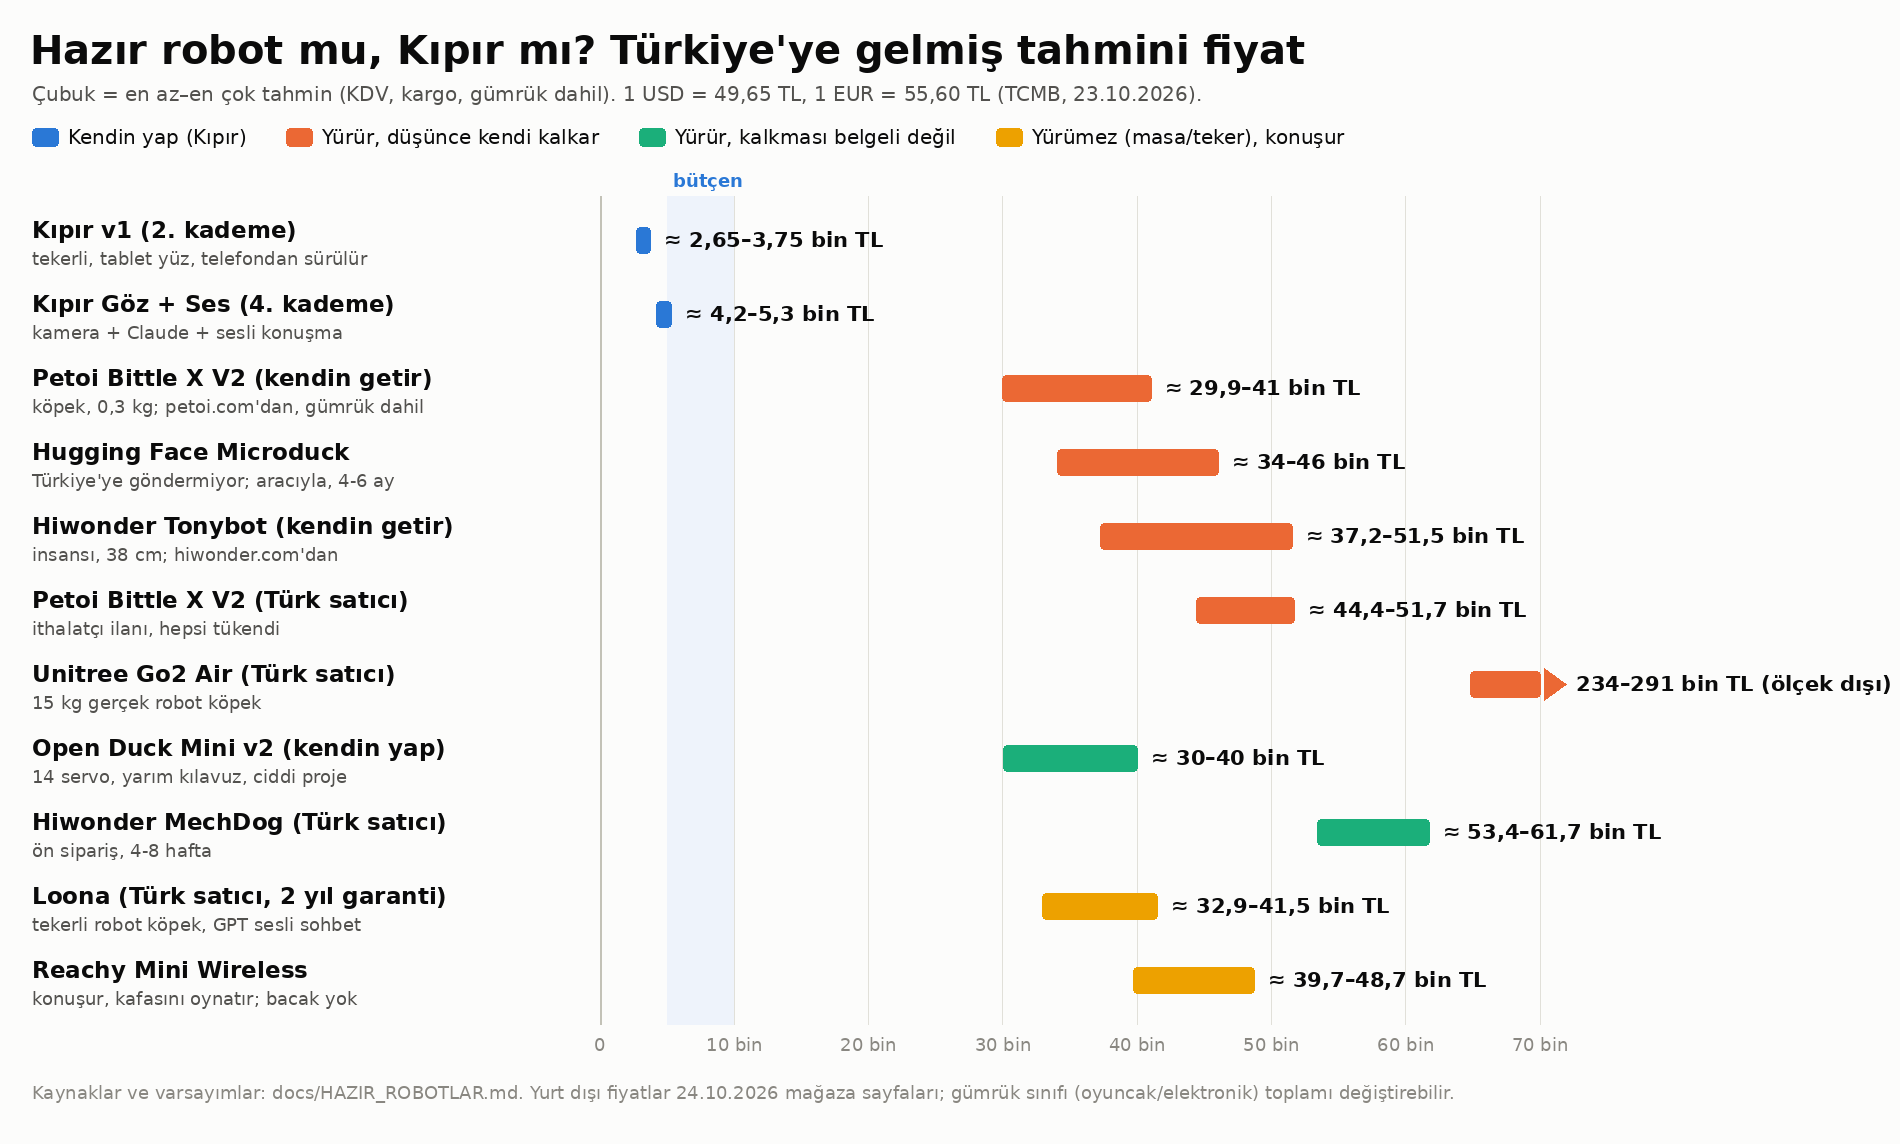
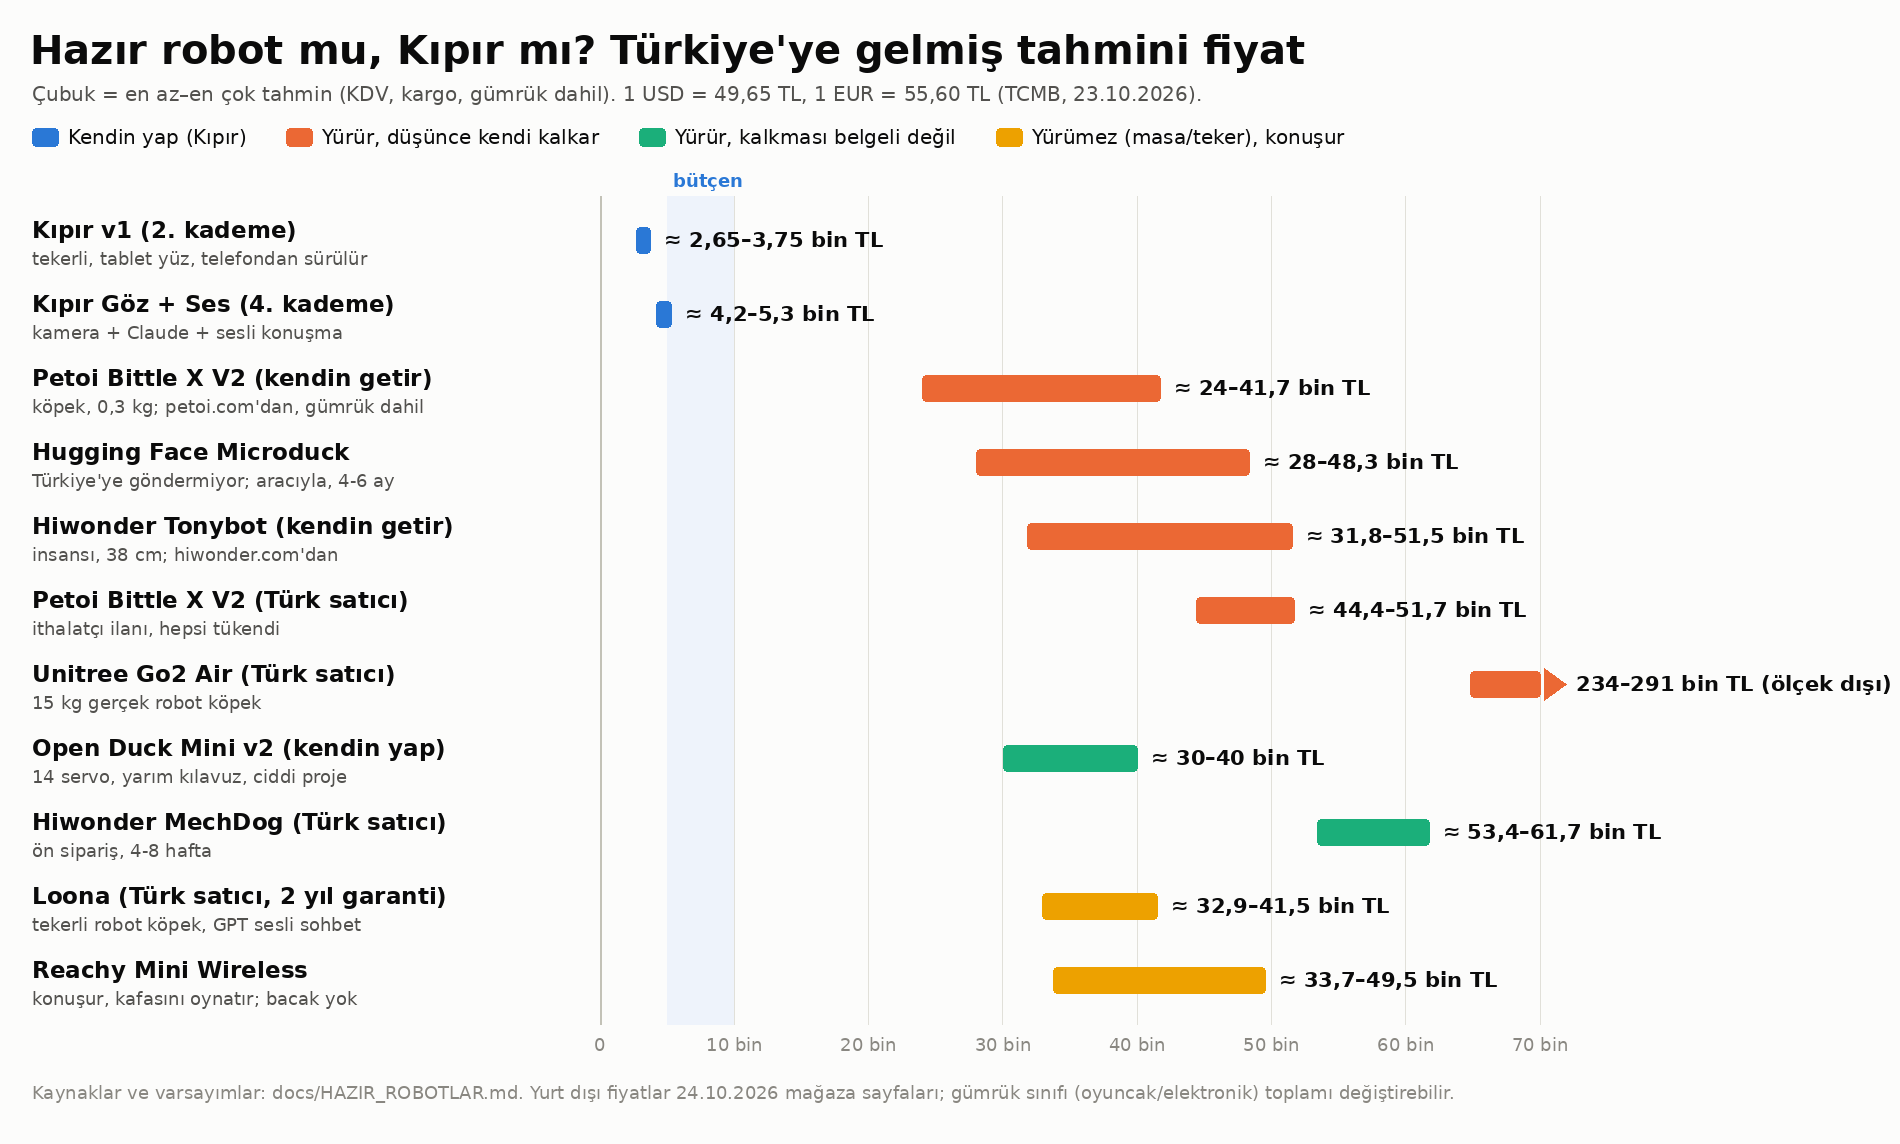
Hazır robotlar: doğrulama düzeltmeleri
Gümrük modeli düzeltildi (maktu %30/%60 sadece ilaç/takviye; damga
vergisi her beyanda, müşavir kuryeye göre), fiyat aralıkları yeniden
hesaplandı, 5 gönderi sınırı kaldırıldı, sahte Microduck mağazası uyarısı.

Claude-Session: https://claude.ai/code/session_01K5dykXYwxCcDztDJ5J9P78

diff --git a/robot/docs/hazir_ciz.py b/robot/docs/hazir_ciz.py
@@ -22,15 +22,15 @@ GRUPLAR = {
 SATIRLAR = [
     ("kendin", "Kıpır v1 (2. kademe)", "tekerli, tablet yüz, telefondan sürülür", 2650, 3750, None),
     ("kendin", "Kıpır Göz + Ses (4. kademe)", "kamera + Claude + sesli konuşma", 4200, 5300, None),
-    ("kalkar", "Petoi Bittle X V2 (kendin getir)", "köpek, 0,3 kg; petoi.com'dan, gümrük dahil", 29900, 41000, None),
-    ("kalkar", "Hugging Face Microduck", "Türkiye'ye göndermiyor; aracıyla, 4-6 ay", 34000, 46000, None),
-    ("kalkar", "Hiwonder Tonybot (kendin getir)", "insansı, 38 cm; hiwonder.com'dan", 37200, 51500, None),
+    ("kalkar", "Petoi Bittle X V2 (kendin getir)", "köpek, 0,3 kg; petoi.com'dan, gümrük dahil", 24000, 41700, None),
+    ("kalkar", "Hugging Face Microduck", "Türkiye'ye göndermiyor; aracıyla, 4-6 ay", 28000, 48300, None),
+    ("kalkar", "Hiwonder Tonybot (kendin getir)", "insansı, 38 cm; hiwonder.com'dan", 31800, 51500, None),
     ("kalkar", "Petoi Bittle X V2 (Türk satıcı)", "ithalatçı ilanı, hepsi tükendi", 44400, 51700, None),
     ("kalkar", "Unitree Go2 Air (Türk satıcı)", "15 kg gerçek robot köpek", 70000, 70000, "234–291 bin TL"),
     ("yurur", "Open Duck Mini v2 (kendin yap)", "14 servo, yarım kılavuz, ciddi proje", 30000, 40000, None),
     ("yurur", "Hiwonder MechDog (Türk satıcı)", "ön sipariş, 4-8 hafta", 53400, 61700, None),
     ("yurumez", "Loona (Türk satıcı, 2 yıl garanti)", "tekerli robot köpek, GPT sesli sohbet", 32900, 41500, None),
-    ("yurumez", "Reachy Mini Wireless", "konuşur, kafasını oynatır; bacak yok", 39700, 48700, None),
+    ("yurumez", "Reachy Mini Wireless", "konuşur, kafasını oynatır; bacak yok", 33700, 49500, None),
 ]
 
 W, LEFT, RIGHT, TOP, ROW, BOT = 1900, 600, 360, 210, 74, 120
